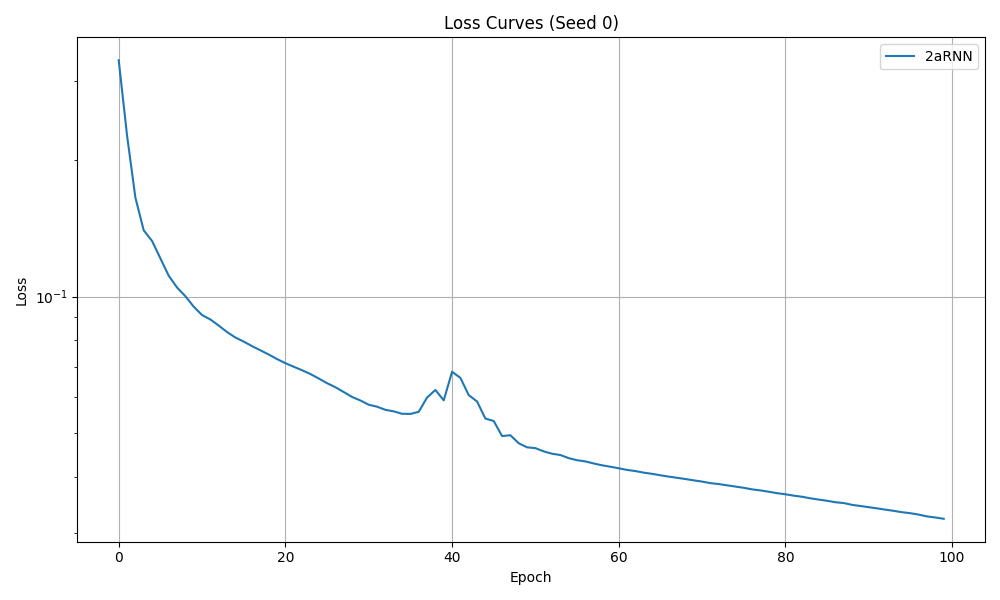
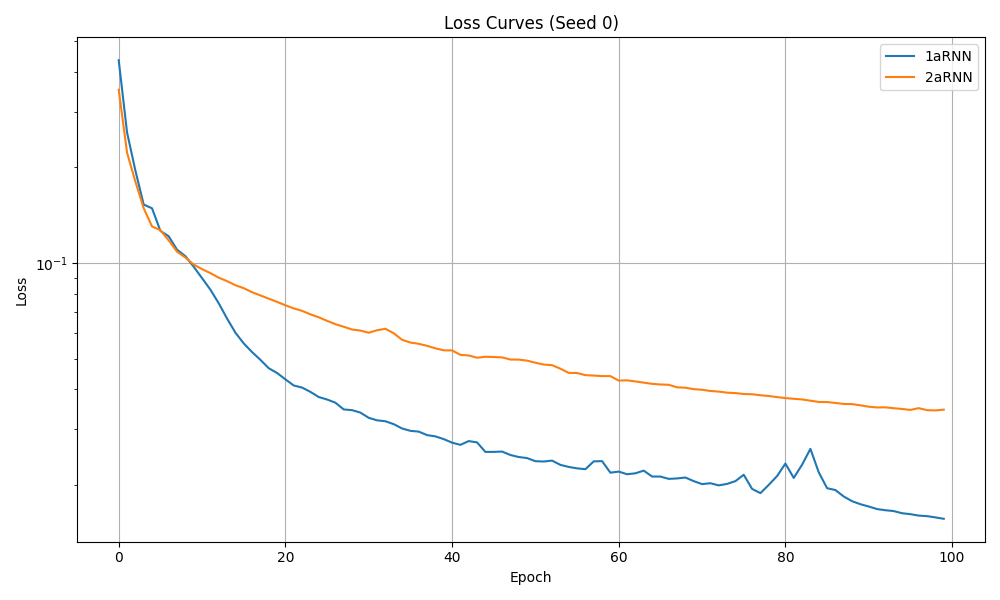
Plot 1arnn for bonus as well.

diff --git a/train_model_bonus.py b/train_model_bonus.py
@@ -73,6 +73,7 @@ def main():
     os.makedirs('model', exist_ok=True)
 
     models_config = {
+        '1aRNN': (SingleAreaRNN, {'input_size': 5, 'hidden_size': 100, 'output_size': 2}),
         '2aRNN': (TwoAreaRNN, {'input_size': 5, 'hidden_size': 100, 'output_size': 2})
     }
 
@@ -89,7 +90,8 @@ def main():
             print(f"\nTraining {model_name}")
 
             model = model_class(**model_args).to(device)
-            model.alpha2 = model.alpha1 / 10
+            if model_name == '2aRNN':
+                model.alpha2 = model.alpha1 / 10
 
             loss_list = train_model(model, device, seed)
             accuracy, hs = evaluate_model(model, device)
